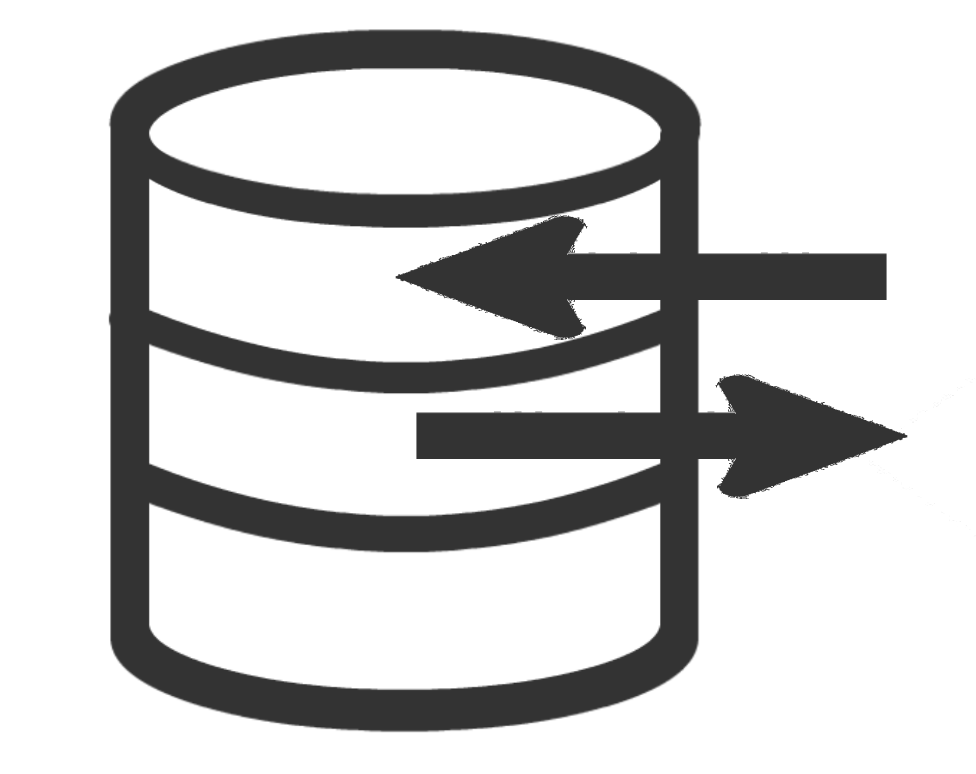
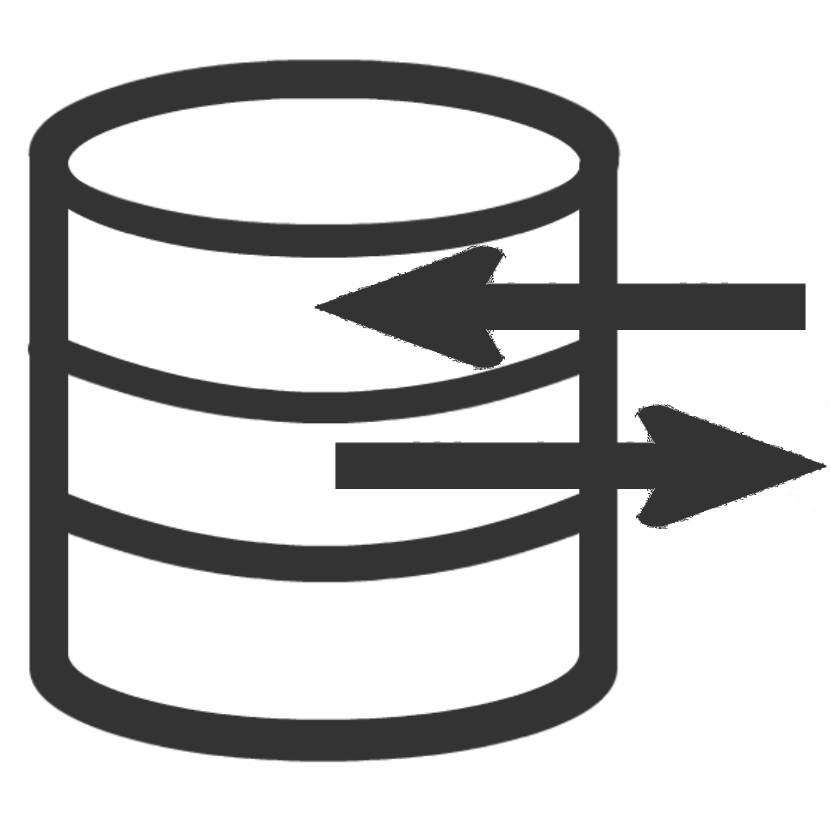
Fix: package verification fails
The web-ext package verification was failing, so this commit fixes Lint
errors:
 * Icon size corrected to square and manifest adjusted
 * Content script set in popup implementation was not found

Changed region(s): [[0.0301, 0.031, 0.994, 0.9612], [0.4819, 0.4961, 0.5422, 0.5271]]

diff --git a/src/content_scripts/KeepYourSession.js b/src/content_scripts/KeepYourSession.js
@@ -1,0 +1,24 @@
+(function() {
+    /**
+     * Check and set a global guard variable.
+     * If this content script is injected into the same page again,
+     * it will do nothing next time.
+     */
+    if (window.hasRun) {
+        return;
+    }
+    window.hasRun = true;
+  
+    /**
+     * Listen for messages from the background script.
+     * Call "beastify()" or "reset()".
+    */
+    browser.runtime.onMessage.addListener((message) => {
+        if (message.command === "") {
+            console.error(`Failed to execute content script: No content implemented`);
+        } else if (message.command === "reset") {
+            console.error(`Failed to execute content script: No content implemented`);
+        }
+    });
+  
+  })();

diff --git a/src/popup/MainPopup.js b/src/popup/MainPopup.js
@@ -22,6 +22,6 @@ function reportExecuteScriptError(error) {
  * and add a click handler.
  * If we couldn't inject the script, handle the error.
  */
-browser.tabs.executeScript({ file: "/content_scripts/beastify.js" })
+browser.tabs.executeScript({ file: "../content_scripts/KeepYourSession.js" })
     .then(listenForClicks)
     .catch(reportExecuteScriptError);
